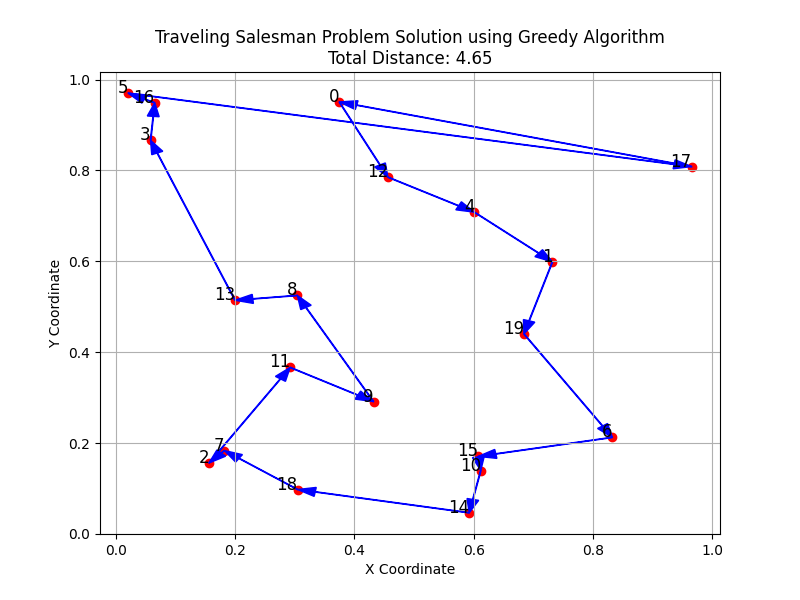
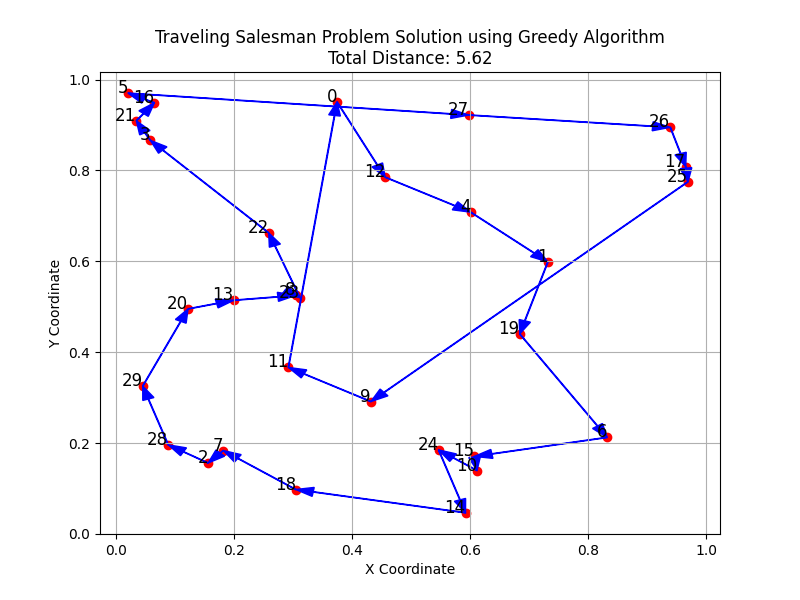
tune the para to compare performance

diff --git a/demo.py b/demo.py
@@ -21,7 +21,7 @@ from method import (
 method = 'Simulated Annealing'
 tour = simulated_annealing(
     distance_matrix, 
-    initial_temp=3000, 
+    initial_temp=10, 
     cooling_rate=0.995, 
     max_iter=10000
 )
